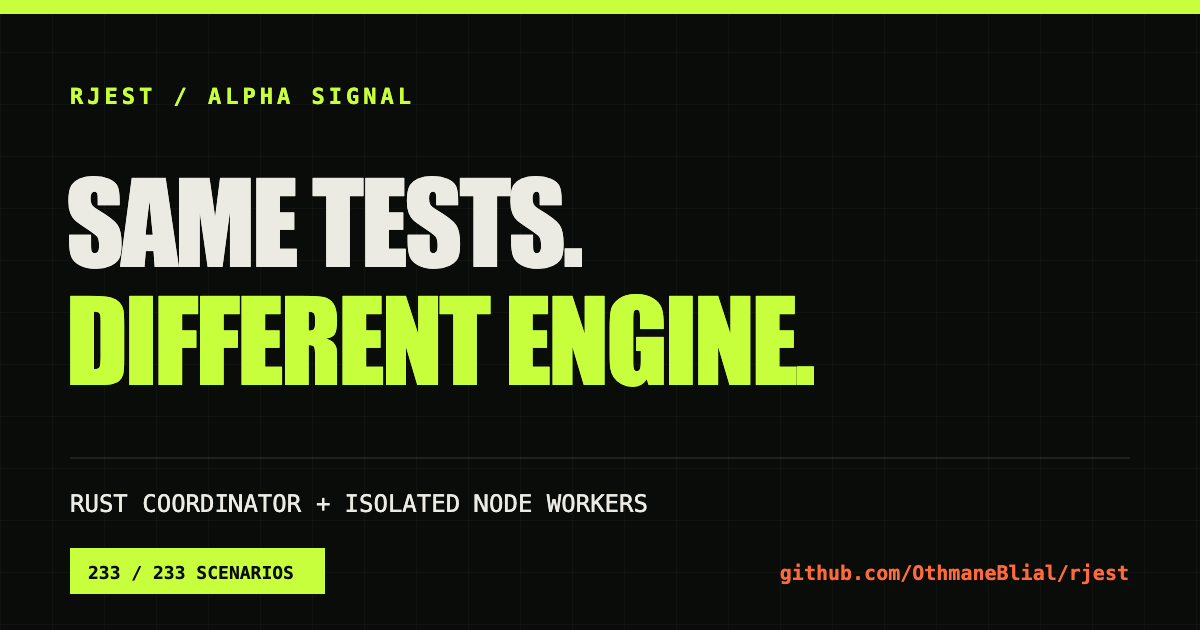
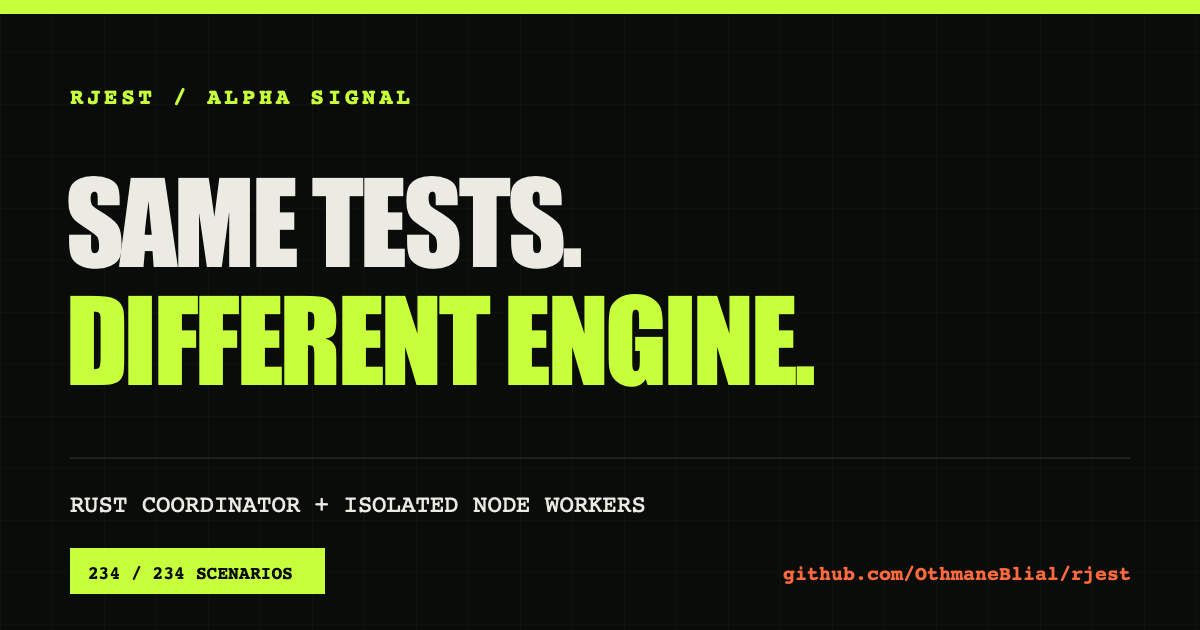
fix(cli): override test failure exit code

diff --git a/site/index.html b/site/index.html
@@ -21,7 +21,7 @@
     />
     <meta
       property="og:description"
-      content="A Rust-powered Jest-compatible runner proven against official Jest, real project suites, and 233 executable differential scenarios."
+      content="A Rust-powered Jest-compatible runner proven against official Jest, real project suites, and 234 executable differential scenarios."
     />
     <meta property="og:url" content="https://othmaneblial.github.io/rjest/" />
     <meta property="og:site_name" content="Rjest" />
@@ -42,7 +42,7 @@
     />
     <meta
       name="twitter:description"
-      content="Change the command, keep the suite: 233 executable scenarios measured against official Jest."
+      content="Change the command, keep the suite: 234 executable scenarios measured against official Jest."
     />
     <meta
       name="twitter:image"
@@ -55,7 +55,7 @@
       href="https://fonts.googleapis.com/css2?family=Archivo+Black&amp;family=IBM+Plex+Mono:wght@400;500;600&amp;family=Manrope:wght@400;500;600;700&amp;display=swap"
       rel="stylesheet"
     />
-    <link rel="stylesheet" href="styles.css" />
+    <link rel="stylesheet" href="styles.css?v=234" />
     <title>Rjest — Rust-powered Jest-compatible test runner</title>
     <script type="application/ld+json">
       {
@@ -81,7 +81,7 @@
         <span class="status-pulse" aria-hidden="true"></span>
         <span>ALPHA SIGNAL</span>
         <span class="signal-bar__divider" aria-hidden="true"></span>
-        <span>233 / 233 DIFFERENTIAL SCENARIOS</span>
+        <span>234 / 234 DIFFERENTIAL SCENARIOS</span>
         <a href="#limits"
           >Read the boundaries <span aria-hidden="true">↘</span></a
         >
@@ -230,15 +230,15 @@
             <div class="matrix-card__heading">
               <div>
                 <span>VERSIONED DIFFERENTIAL MATRIX</span>
-                <strong><b>233</b> / 233</strong>
+                <strong><b>234</b> / 234</strong>
               </div>
               <div class="matrix-badge">100% OF BOUNDED MATRIX</div>
             </div>
             <div
               class="scenario-grid"
-              data-total="233"
+              data-total="234"
               role="img"
-              aria-label="All 233 current differential scenarios pass"
+              aria-label="All 234 current differential scenarios pass"
             ></div>
             <div class="matrix-legend">
               <span><i class="legend-dot legend-dot--pass"></i> PASSING</span>
@@ -481,7 +481,7 @@
           <div class="limits-copy reveal">
             <p class="limits-intro">
               The approximate 90% readiness view is directional, not an
-              automated Jest API percentage. The measured claim remains 233/233
+              automated Jest API percentage. The measured claim remains 234/234
               of the current bounded matrix.
             </p>
             <ul>
@@ -559,6 +559,6 @@
       </div>
     </footer>
 
-    <script src="app.js"></script>
+    <script src="app.js?v=234"></script>
   </body>
 </html>

diff --git a/crates/rjest-cli/src/main.rs b/crates/rjest-cli/src/main.rs
@@ -257,6 +257,14 @@ struct Cli {
     #[arg(short = 'b', long, action = ArgAction::SetTrue)]
     bail: bool,
 
+    /// Process exit code used when a completed test run is unsuccessful.
+    #[arg(
+        long = "testFailureExitCode",
+        visible_alias = "test-failure-exit-code",
+        value_name = "NUMBER"
+    )]
+    test_failure_exit_code: Option<i32>,
+
     /// Disable a bail threshold supplied by configuration.
     #[arg(long = "no-bail", action = ArgAction::SetTrue)]
     no_bail: bool,
@@ -2297,6 +2305,9 @@ fn apply_cli_config_overrides(config: &mut ProjectConfig, cli: &Cli) {
             &config.root_dir,
         ));
     }
+    if let Some(test_failure_exit_code) = cli.test_failure_exit_code {
+        config.test_failure_exit_code = test_failure_exit_code;
+    }
     apply_selection_overrides(config, cli);
     apply_global_execution_overrides(config, cli);
     apply_cache_overrides(config, cli);
@@ -3583,6 +3594,20 @@ mod tests {
         super::apply_global_execution_overrides(&mut config, &cli);
         assert!(!config.watchman);
         assert!(!config.projects[0].watchman);
+    }
+
+    #[test]
+    fn applies_the_jest_test_failure_exit_code_override() {
+        let cli = Cli::try_parse_from(["rjest", "--testFailureExitCode=9"])
+            .expect("Jest failure exit code override");
+        assert_eq!(cli.test_failure_exit_code, Some(9));
+
+        let temp = tempdir().expect("temp dir");
+        let mut config = ProjectConfig::defaults(temp.path()).expect("config");
+        config.test_failure_exit_code = 7;
+
+        super::apply_cli_config_overrides(&mut config, &cli);
+        assert_eq!(config.test_failure_exit_code, 9);
     }
 
     #[test]

diff --git a/README.md b/README.md
@@ -11,7 +11,7 @@
 [Website](https://othmaneblial.github.io/rjest/) · [Compatibility](docs/compatibility.md) · [Migration guide](docs/migration-from-jest.md) · [Architecture](docs/architecture.md)
 
 [![Status: alpha](https://img.shields.io/badge/status-alpha-f4b942?style=for-the-badge)](docs/progress.md)
-[![Jest differential: 233/233](https://img.shields.io/badge/Jest_differential-233%2F233-bbff2c?style=for-the-badge)](compat/jest-compatibility.json)
+[![Jest differential: 234/234](https://img.shields.io/badge/Jest_differential-234%2F234-bbff2c?style=for-the-badge)](compat/jest-compatibility.json)
 [![Coordinator: Rust](https://img.shields.io/badge/coordinator-Rust-111511?style=for-the-badge&logo=rust)](docs/architecture.md)
 [![Runtime: Node 22.18+](https://img.shields.io/badge/runtime-Node_22.18%2B-111511?style=for-the-badge&logo=nodedotjs)](docs/development.md)
 [![License: MIT](https://img.shields.io/badge/license-MIT-111511?style=for-the-badge)](LICENSE)
@@ -47,7 +47,7 @@ under official Jest and Rjest.
 | Does it use existing Jest tests?                                 | Yes, across the measured surface                   |
 | Does it read Jest configuration?                                 | Yes, with explicit errors for unsupported options  |
 | Are snapshots, mocks, timers, ESM, JSDOM, and coverage included? | Yes, within the documented boundaries              |
-| Is compatibility measured against official Jest?                 | **233 / 233 executable scenarios pass**            |
+| Is compatibility measured against official Jest?                 | **234 / 234 executable scenarios pass**            |
 | Has it run serious public projects?                              | **25 pinned corpus reports**                       |
 | Is it production-ready everywhere?                               | No. Current directional readiness is **about 90%** |
 | Is it already faster than Jest?                                  | No published claim yet; correctness comes first    |
@@ -64,7 +64,7 @@ Jest 29.7.0.
 
 | Area                 |       Passing | Measured score |
 | -------------------- | ------------: | -------------: |
-| CLI                  |       36 / 36 |           100% |
+| CLI                  |       37 / 37 |           100% |
 | Configuration        |       51 / 51 |           100% |
 | Core API             |       16 / 16 |           100% |
 | Coverage             |       19 / 19 |           100% |
@@ -78,7 +78,7 @@ Jest 29.7.0.
 | Snapshots            |       16 / 16 |           100% |
 | Transforms           |         7 / 7 |           100% |
 | Watch                |         4 / 4 |           100% |
-| **Versioned matrix** | **233 / 233** |       **100%** |
+| **Versioned matrix** | **234 / 234** |       **100%** |
 
 The 100% above means every scenario currently in the versioned matrix passes.
 It does not mean Rjest implements 100% of Jest. The matrix is deliberately
@@ -223,7 +223,7 @@ that skips behavior does not get to call itself fast. See the
 
 The current project-readiness estimate is approximately **90%**. This is a
 directional engineering estimate, not an automated percentage of the Jest API.
-The automated number is the 233-scenario matrix above.
+The automated number is the 234-scenario matrix above.
 
 - Watch plugins, Mercurial/Sapling changed-file selection, and some terminal
   output details remain open.
@@ -244,8 +244,8 @@ make check
 
 That command runs Rust formatting, strict Clippy, all workspace tests,
 JavaScript syntax and comparator tests, and every differential fixture against
-the pinned official Jest oracles. The current local Rust suite is 117/117, and
-the generated compatibility matrix is 233/233.
+the pinned official Jest oracles. The current local Rust suite is 118/118, and
+the generated compatibility matrix is 234/234.
 
 ## Help close the next gap
 

diff --git a/docs/progress.md b/docs/progress.md
@@ -409,14 +409,17 @@ Last updated: 2026-08-31
   Failed test runs use the requested status while passing runs remain zero and
   configuration errors remain one; a failing oracle fixture preserves both
   the test result and exact exit code 7.
+- `--testFailureExitCode` now overrides the configured status from the command
+  line. The permanent CLI differential runs the same failing fixture with a
+  configured status of 7 and proves that both Jest and Rjest exit with 9.
 - `testLocationInResults` now records one-based test-declaration lines and
   columns in JSON output. A two-test oracle fixture compares exact top-level and
   nested positions, and the optional field travels over worker protocol v27.
 - An automated differential denominator containing executable compatibility
-  probes. The current generated result is 233/233 compatible scenarios (100.0%),
+  probes. The current generated result is 234/234 compatible scenarios (100.0%),
   with Core API at 16/16 (100.0%), ESM at 8/8
   (100.0%), transforms at 7/7 (100.0%), mocks at 16/16 (100.0%), configuration
-  at 51/51 (100.0%), snapshots at 16/16 (100.0%), CLI at 36/36 (100.0%),
+  at 51/51 (100.0%), snapshots at 16/16 (100.0%), CLI at 37/37 (100.0%),
   environments at 7/7 (100.0%), Expect at 14/14 (100.0%), fake timers at 20/20
   (100.0%), coverage at 19/19 (100.0%), reporters at 7/7 (100.0%), Watch at
   4/4 (100.0%), and
@@ -659,10 +662,10 @@ Last updated: 2026-08-31
 `compat/jest-compatibility.json` is regenerated by the differential harness. It
 records every scenario, whether Jest/Rjest results match, the observed mismatch,
 and category and overall percentages. Repaired gaps remain permanent regression
-entries. The current probe corpus score is 233/233 (100.0%). Core API is 16/16
+entries. The current probe corpus score is 234/234 (100.0%). Core API is 16/16
 (100.0%), ESM is 8/8
 (100.0%), transforms are 7/7 (100.0%), mocks are 16/16 (100.0%), configuration
-is 51/51 (100.0%), CLI is 36/36 (100.0%), resolution is 12/12 (100.0%), snapshots
+is 51/51 (100.0%), CLI is 37/37 (100.0%), resolution is 12/12 (100.0%), snapshots
 are 16/16 (100.0%), Expect is 14/14 (100.0%), environments are 7/7 (100.0%), and
 coverage is 19/19 (100.0%) in their bounded scenario categories. Fake timers are
 20/20 (100.0%), reporters are 7/7 (100.0%), and Watch is 4/4 (100.0%).

diff --git a/docs/compatibility.md b/docs/compatibility.md
@@ -9,11 +9,11 @@ output differences. Oracle fixtures run from fresh copies with both runners'
 caches disabled, so stale haste/performance data cannot alter a differential
 unless a scenario explicitly tests caching.
 
-The current generated matrix is 233/233 (100.0%) across its explicitly listed
+The current generated matrix is 234/234 (100.0%) across its explicitly listed
 scenarios and categories. Core API is 16/16 (100.0%), ESM is 8/8 (100.0%),
 transforms are 7/7 (100.0%), mocks are 16/16 (100.0%), and configuration is
 51/51 (100.0%). Resolution is 12/12 (100.0%), snapshots are 16/16 (100.0%),
-Expect is 14/14 (100.0%), CLI is 36/36 (100.0%), and environments are 7/7
+Expect is 14/14 (100.0%), CLI is 37/37 (100.0%), and environments are 7/7
 (100.0%). Fake timers are 20/20 (100.0%), coverage is 19/19 (100.0%), and custom
 reporters are 7/7 (100.0%), and Watch is 4/4 (100.0%). These
 are scores for the bounded regression set, not claims about the unmeasured full
@@ -326,7 +326,8 @@ off `globalThis` while preserving explicit CommonJS imports from
 `@jest/globals`; the default remains Jest's global-injection behavior.
 `testFailureExitCode` controls the process status for completed unsuccessful
 runs while successful runs remain zero and configuration/runtime errors retain
-their own failure boundary.
+their own failure boundary. The matching `--testFailureExitCode` CLI option
+overrides the configured value at the same final process boundary.
 `testLocationInResults` adds Jest-shaped one-based `{line, column}` declaration
 positions to JSON test results. The differential compares exact top-level and
 indented nested locations rather than only checking that the field exists.

diff --git a/docs/adr/0075-override-failure-exit-code-from-cli.md b/docs/adr/0075-override-failure-exit-code-from-cli.md
@@ -1,0 +1,37 @@
+# ADR 0075: Override failure exit code from the CLI
+
+## Status
+
+Accepted.
+
+## Context
+
+Jest exposes `testFailureExitCode` through both configuration and the
+`--testFailureExitCode` command-line option. The CLI value takes precedence,
+which lets CI wrappers select a status without editing a repository's shared
+configuration.
+
+Rjest already honored the configured value, but Clap rejected the equivalent
+CLI option before configuration or test execution. A repository relying on
+that override could therefore not replace its Jest command unchanged.
+
+## Decision
+
+Parse Jest's camel-case `--testFailureExitCode=<number>` option, with a
+hyphenated Rjest alias, and apply it after configuration normalization. Capture
+the resulting top-level failure status before execution and keep using it only
+for completed unsuccessful runs. Passing runs remain zero, and failures that
+occur before a completed result remain status 1.
+
+Extend the differential harness with a distinct CLI scenario. It starts from a
+fixture configured to exit 7, supplies `--testFailureExitCode=9` to both
+official Jest and Rjest, compares the failed test result, and requires exact
+process status 9.
+
+## Consequences
+
+- CI wrappers can preserve an existing Jest failure-code override unchanged.
+- Configuration-only behavior remains covered independently at status 7.
+- A Rust parser/override test protects the precedence boundary.
+- The CLI category grows from 36 to 37 scenarios, and the complete
+  compatibility matrix grows from 233 to 234 scenarios.

diff --git a/docs/architecture.md b/docs/architecture.md
@@ -104,6 +104,10 @@ CLI `--projects` paths use the same child loader without glob expansion; the
 first child supplies coordinator defaults when several paths are provided.
 Display-name selection and ignore predicates filter the normalized matrix before
 discovery, sharding, or worker scheduling.
+Global execution overrides are applied after normalization. In particular,
+`--testFailureExitCode` replaces the configured failure status before the CLI
+captures the final process boundary, while configuration and runtime errors
+remain status 1 because they do not produce a completed test result.
 Default sharding then hashes each selected test relative to its owning project
 root across one combined matrix; it does not reuse the coordinator's root for
 child projects.
